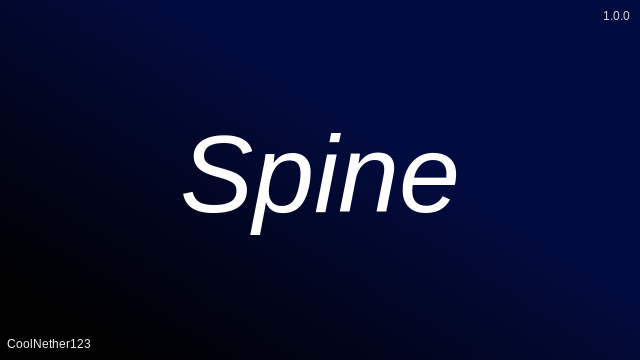
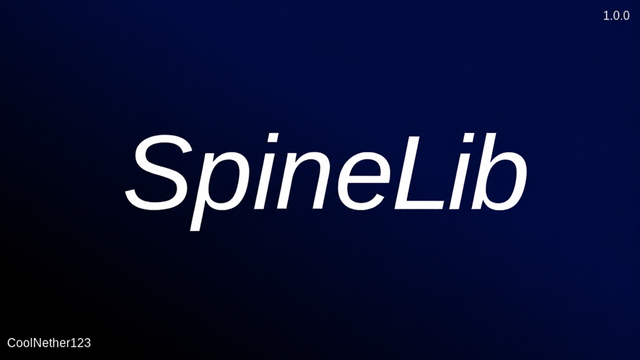
Refresh SpineLib public metadata and preview

diff --git a/README.md b/README.md
@@ -1,6 +1,8 @@
 # SpineLib
 
-SpineLib is the feature-neutral runtime shared by CoolNether123 RimWorld mods.
+SpineLib is the public name of the feature-neutral runtime shared by CoolNether123
+RimWorld mods. Its package ID, assemblies, namespaces, and API identifiers remain
+`Spine` for compatibility with existing consumers.
 It provides settings pages, contextual settings navigation, guarded Harmony
 installation, opt-in tooltip stabilization, and bounded caching. SpineLib does not add
 player-facing gameplay by itself.
@@ -25,7 +27,7 @@ never asks for it pays nothing.
 ## Install
 Install Harmony first, then copy the `Spine` folder into RimWorld's `Mods`
 directory and load SpineLib before any mod that declares `CoolNether123.Spine` as
-a dependency.
+a dependency. The folder and dependency ID intentionally remain `Spine`.
 
 Never copy `Spine.dll` into a consumer mod. Two copies of the same types loaded
 at once is precisely the situation a shared runtime exists to prevent.
